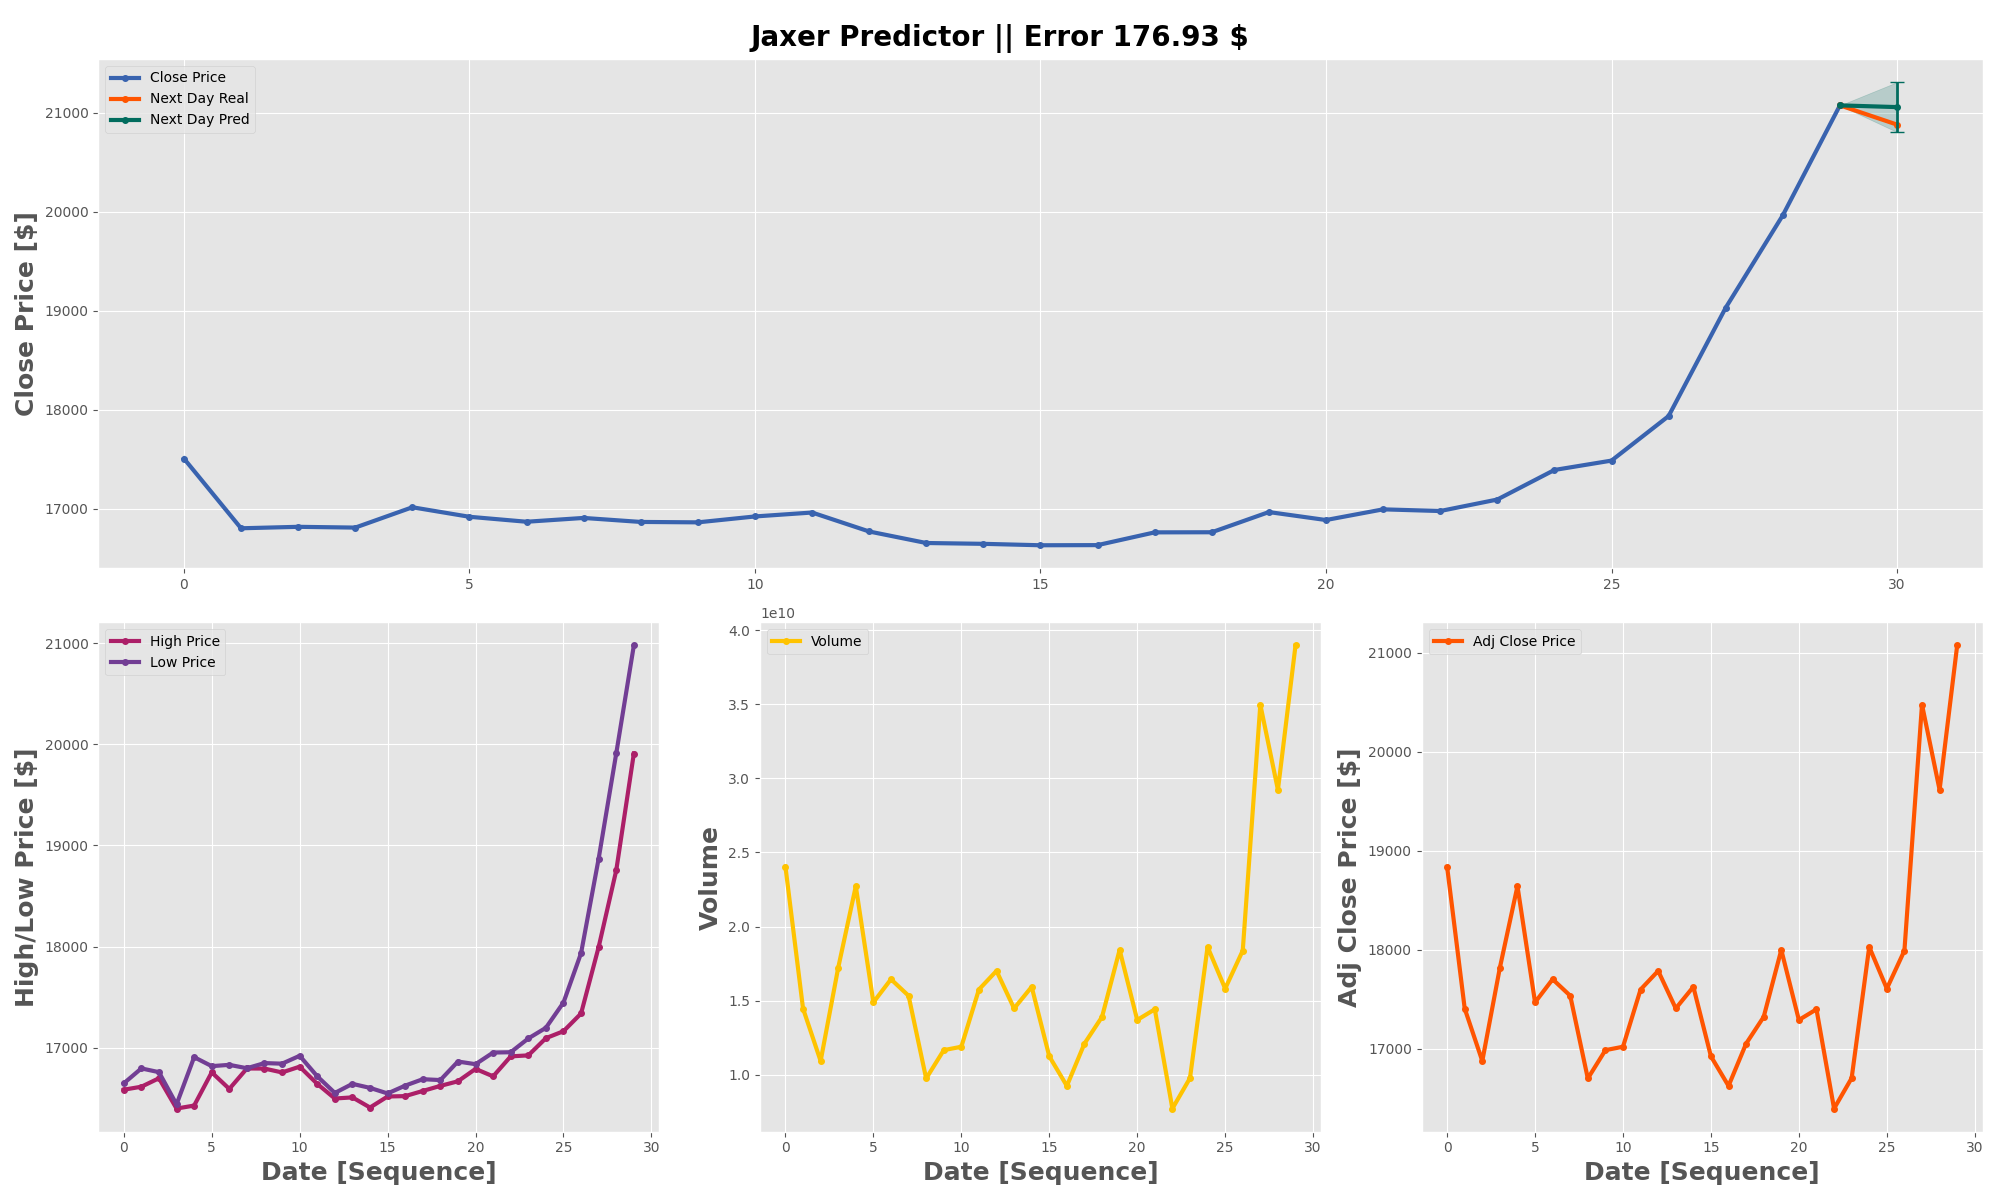
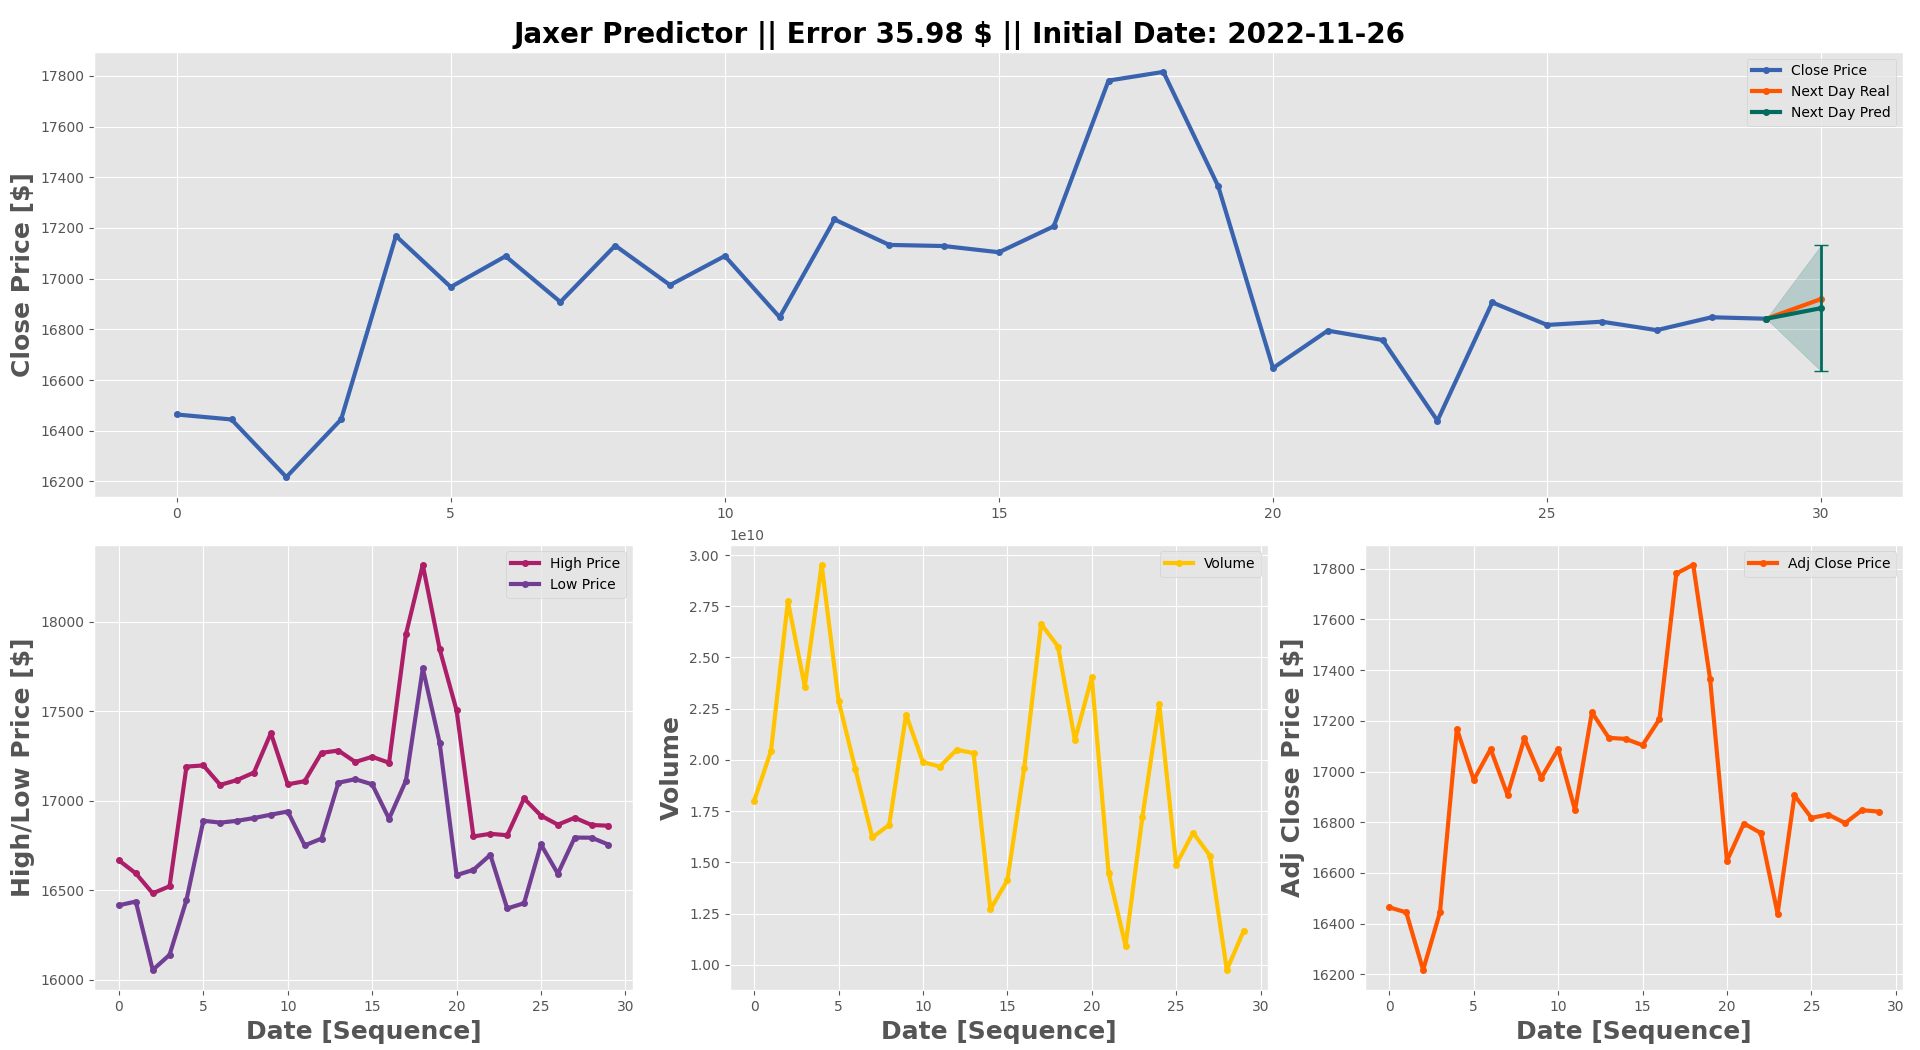
some fixing

diff --git a/src/jaxer/utils/plotter.py b/src/jaxer/utils/plotter.py
@@ -41,7 +41,7 @@ def plot_predictions(input: jnp.ndarray, y_true: jnp.ndarray, y_pred: jnp.ndarra
     linewidth = 3
     marker_size = 4
 
-    sequence_data = denormalize(input[:, 1], normalizer["price"])
+    sequence_data = denormalize(input[:, 0], normalizer["price"])
     prediction_data = jnp.append(sequence_data[-1], denormalize(y_pred[0], normalizer["price"]))
     real_data = jnp.append(sequence_data[-1], denormalize(y_true[0], normalizer["price"]))
     base = jnp.arange(len(sequence_data))
@@ -73,8 +73,8 @@ def plot_predictions(input: jnp.ndarray, y_true: jnp.ndarray, y_pred: jnp.ndarra
 
 
     """ Plot high/low price """
-    high_data = denormalize(input[:, 2], normalizer["price"])
-    low_data = denormalize(input[:, 3], normalizer["price"])
+    high_data = denormalize(input[:, 1], normalizer["price"])
+    low_data = denormalize(input[:, 2], normalizer["price"])
     ax1.plot(base, high_data, label='High Price', color=Color.pink,  linewidth=linewidth, marker='o', markersize=marker_size)
     ax1.plot(base, low_data, label='Low Price', color=Color.purple,  linewidth=linewidth, marker='o', markersize=marker_size)
     ax1.set_ylabel('High/Low Price [$]', fontsize=18, fontweight='bold')
@@ -82,14 +82,14 @@ def plot_predictions(input: jnp.ndarray, y_true: jnp.ndarray, y_pred: jnp.ndarra
     ax1.legend()
 
     """ Plot volume """
-    volume_data = denormalize(input[:, 5], normalizer["volume"])
+    volume_data = denormalize(input[:, 4], normalizer["volume"])
     ax2.plot(base, volume_data, label='Volume', color=Color.yellow,  linewidth=linewidth, marker='o', markersize=marker_size)
     ax2.set_ylabel('Volume', fontsize=18, fontweight='bold')
     ax2.set_xlabel('Date [Sequence]', fontsize=18, fontweight='bold')
     ax2.legend()
 
     """ Plot adj close price """
-    adj_close_data = denormalize(input[:, 4], normalizer["price"])
+    adj_close_data = denormalize(input[:, 3], normalizer["price"])
     ax3.plot(base, adj_close_data, label='Adj Close Price', color=Color.orange,  linewidth=linewidth, marker='o', markersize=marker_size)
     ax3.set_ylabel('Adj Close Price [$]', fontsize=18, fontweight='bold')
     ax3.set_xlabel('Date [Sequence]', fontsize=18, fontweight='bold')

diff --git a/training_config.py b/training_config.py
@@ -2,10 +2,10 @@ from jaxer.utils.config import ModelConfig, Config
 
 
 model_config = ModelConfig(
-    d_model=64,
-    num_layers=2,
-    head_layers=2,
-    n_heads=4,
+    d_model=128,
+    num_layers=4,
+    head_layers=1,
+    n_heads=8,
     dim_feedforward=4*64,  # 4 * d_model
     dropout=0.05,
     max_seq_len=30,
@@ -16,13 +16,13 @@ model_config = ModelConfig(
 config = Config(
     model_config=model_config,
     log_dir="results",
-    experiment_name="distribution_v2",
+    experiment_name="distribution_v2_def_global",
     num_epochs=100,
     learning_rate=3e-4,
     warmup_epochs=15,
     dataset_path="./data/BTCUSD.csv",
-    batch_size=128,
-    test_split=0.1,
+    batch_size=64,
+    test_split=0.2,
     seed=0,
-    normalizer_mode="window"
+    normalizer_mode="global"
 )

diff --git a/src/jaxer/utils/dataset.py b/src/jaxer/utils/dataset.py
@@ -27,8 +27,8 @@ class Dataset(torch.utils.data.Dataset):
         self._norm_mode = norm_mode
         if self._norm_mode == "global":
             self._global_normalizer = dict(
-                price=dict(min_val=self._data[['Open', 'Close', 'High', 'Low', 'Adj Close']].min().min(), 
-                           max_val=self._data[['Open', 'Close', 'High', 'Low', 'Adj Close']].max().max()),
+                price=dict(min_val=self._data[['Close', 'High', 'Low', 'Adj Close']].min().min(), 
+                           max_val=self._data[['Close', 'High', 'Low', 'Adj Close']].max().max()),
                 volume=dict(min_val=self._data['Volume'].min().min(), 
                             max_val=self._data['Volume'].max().max())
             )

diff --git a/src/jaxer/utils/agent.py b/src/jaxer/utils/agent.py
@@ -25,7 +25,9 @@ class Agent:
             dim_feedforward=self.config.model_config["dim_feedforward"],
             dropout=self.config.model_config["dropout"],
             max_seq_len=self.config.model_config["max_seq_len"],
-            deterministic=True
+            deterministic=True,
+            flatten_encoder_output=self.config.model_config["flatten_encoder_output"],
+            head_layers=self.config.model_config["head_layers"]
         )
 
         """ Create an orbax checkpointer to restore the model"""

diff --git a/play.py b/play.py
@@ -8,7 +8,7 @@ from jaxer.utils.plotter import plot_predictions
 
 
 if __name__ == '__main__':
-    agent = Agent(experiment="distribution", model_name="52")
+    agent = Agent(experiment="distribution_v2_def_global", model_name="58")
 
     """ LOAD SOME DATA """
     x_test = jnp.ones((1, agent.config.model_config["max_seq_len"], agent.config.model_config["input_features"]))

diff --git a/src/jaxer/utils/trainer.py b/src/jaxer/utils/trainer.py
@@ -131,7 +131,6 @@ class FlaxTrainer(TrainerBase):
             rng, key = jax.random.split(rng) # creates a new subkey
 
             """ Training """
-            # TODO: I HAVE A THOUGHT THAT I AM RESETING THE STATE BETWEEN EPOCHS!!!!
             train_state, metrics = self._train_epoch(train_state, key)
             
             """ Logging """

diff --git a/README.md b/README.md
@@ -59,9 +59,12 @@ The available information is:
 - Volume
 - Adjusted close price
 
-Data must be normalized to avoid exploding gradients during training. Two normalization methods are implemented. First, a minmax normalization across the entire dataset. Second, a window minmax normalization. The second one seems more suitable to avoid losing too much resolution and also to ensure to work over time and not become obsolete (BTC may surpass the current max BTC price or volume).
+The dataset class is implemented in PyTorch due to the easyness of creating a dataloader. However, as we are working with jax arrays, it was necessary to pass a function to the dataloader to map the torch tensors to jax.ndarrays.
 
-The dataset class is implemented in PyTorch due to the easyness of creating a dataloader. However, as we are working with jax arrays, it was necessary to pass a function to the dataloader to map the torch tensors to jax.ndarrays. 
+The test set is not randomly computed across the entire dataset. For better generalization capabilities understanding, the test set is taken from the last dataset components; simulating real world prediction. 
+
+#### Normalization
+Data must be normalized to avoid exploding gradients during training. Two normalization methods are implemented. First, a minmax normalization across the entire dataset. Second, a window minmax normalization. The second one seems more suitable to avoid losing too much resolution and also to ensure to work over time and not become obsolete (BTC may surpass the current max BTC price or volume). However, this approach can introduce inconsistencies in data scaling across different windows, potentially affecting the model's performance and its ability to generalize to new data.
 
 ### Model
 
@@ -109,11 +112,12 @@ In order to analyze and compare results, several metrics have been considered:
 - **MAE**: Mean Absolute Error. The lower the value, the better the model as the mean of the distribution is closer to the real value.
 - **R2**: R2 Score. The higher the value, the better the model as the model explains more variance of the data.
 
-The best test results are shown in the following table. The evaluation is computed on the test set which is the 10% of the whole dataset.
-| Model | NLL | MAE | R2 |
-|:-------:|:-----:|:-----:|:----:|
-| Encoder | -0.8547 | 0.0704 | 0.8818 |
-| Encoder + Decoder | - | - | -      |
+The best test results are shown in the following table. Metrics are computed with normalized data. The evaluation is computed on the test set which is the 20% of the whole dataset.
+| Model | NLL | MAE | R2 | Normalization |
+|:-------:|:-----:|:-----:|:----:|:-------:|
+| Encoder | -0.8547 | 0.0704 | 0.8818 | window |
+| Encoder | - | - | -      | absolute | 
+| Encoder | - | - | - | none |
 
 
 Some of the predictions are shown below. As we are predicting a distirbution, the 95% confidence interval is shown in the plots in order to have a better understanding of the uncertainty of the model. The upper and lower bounds are computed as ```[mean + 1.96*std, mean - 1.96*std]``` respectively.
